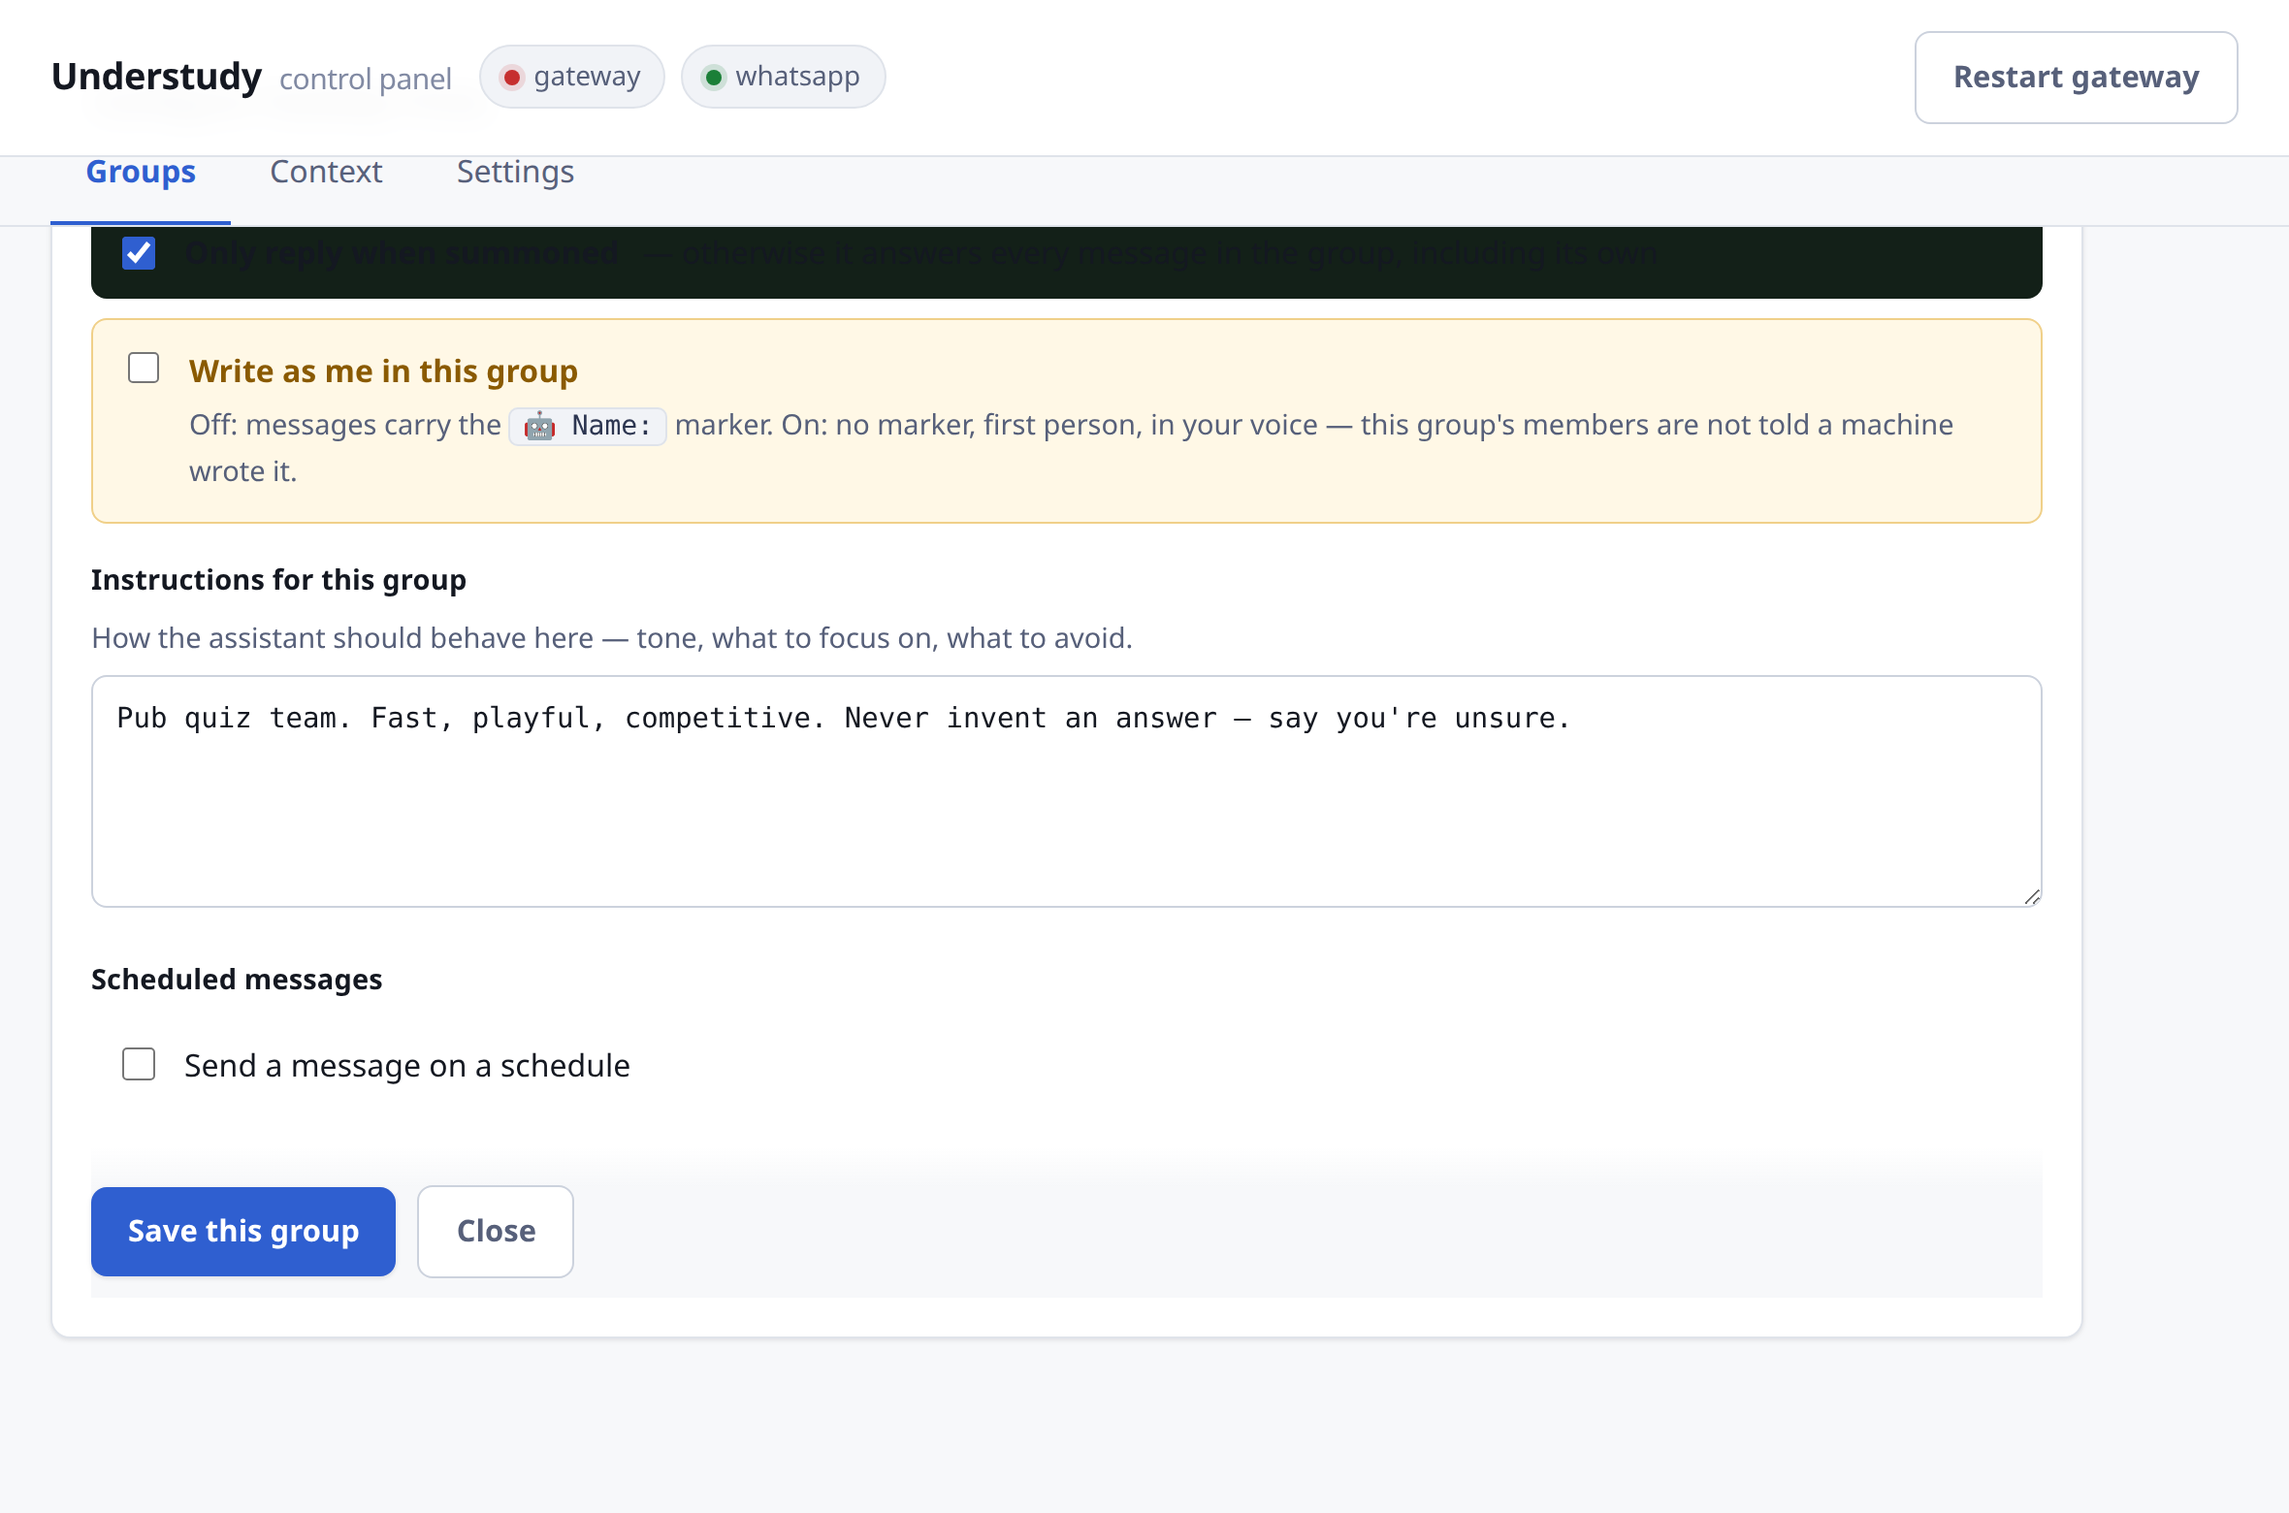
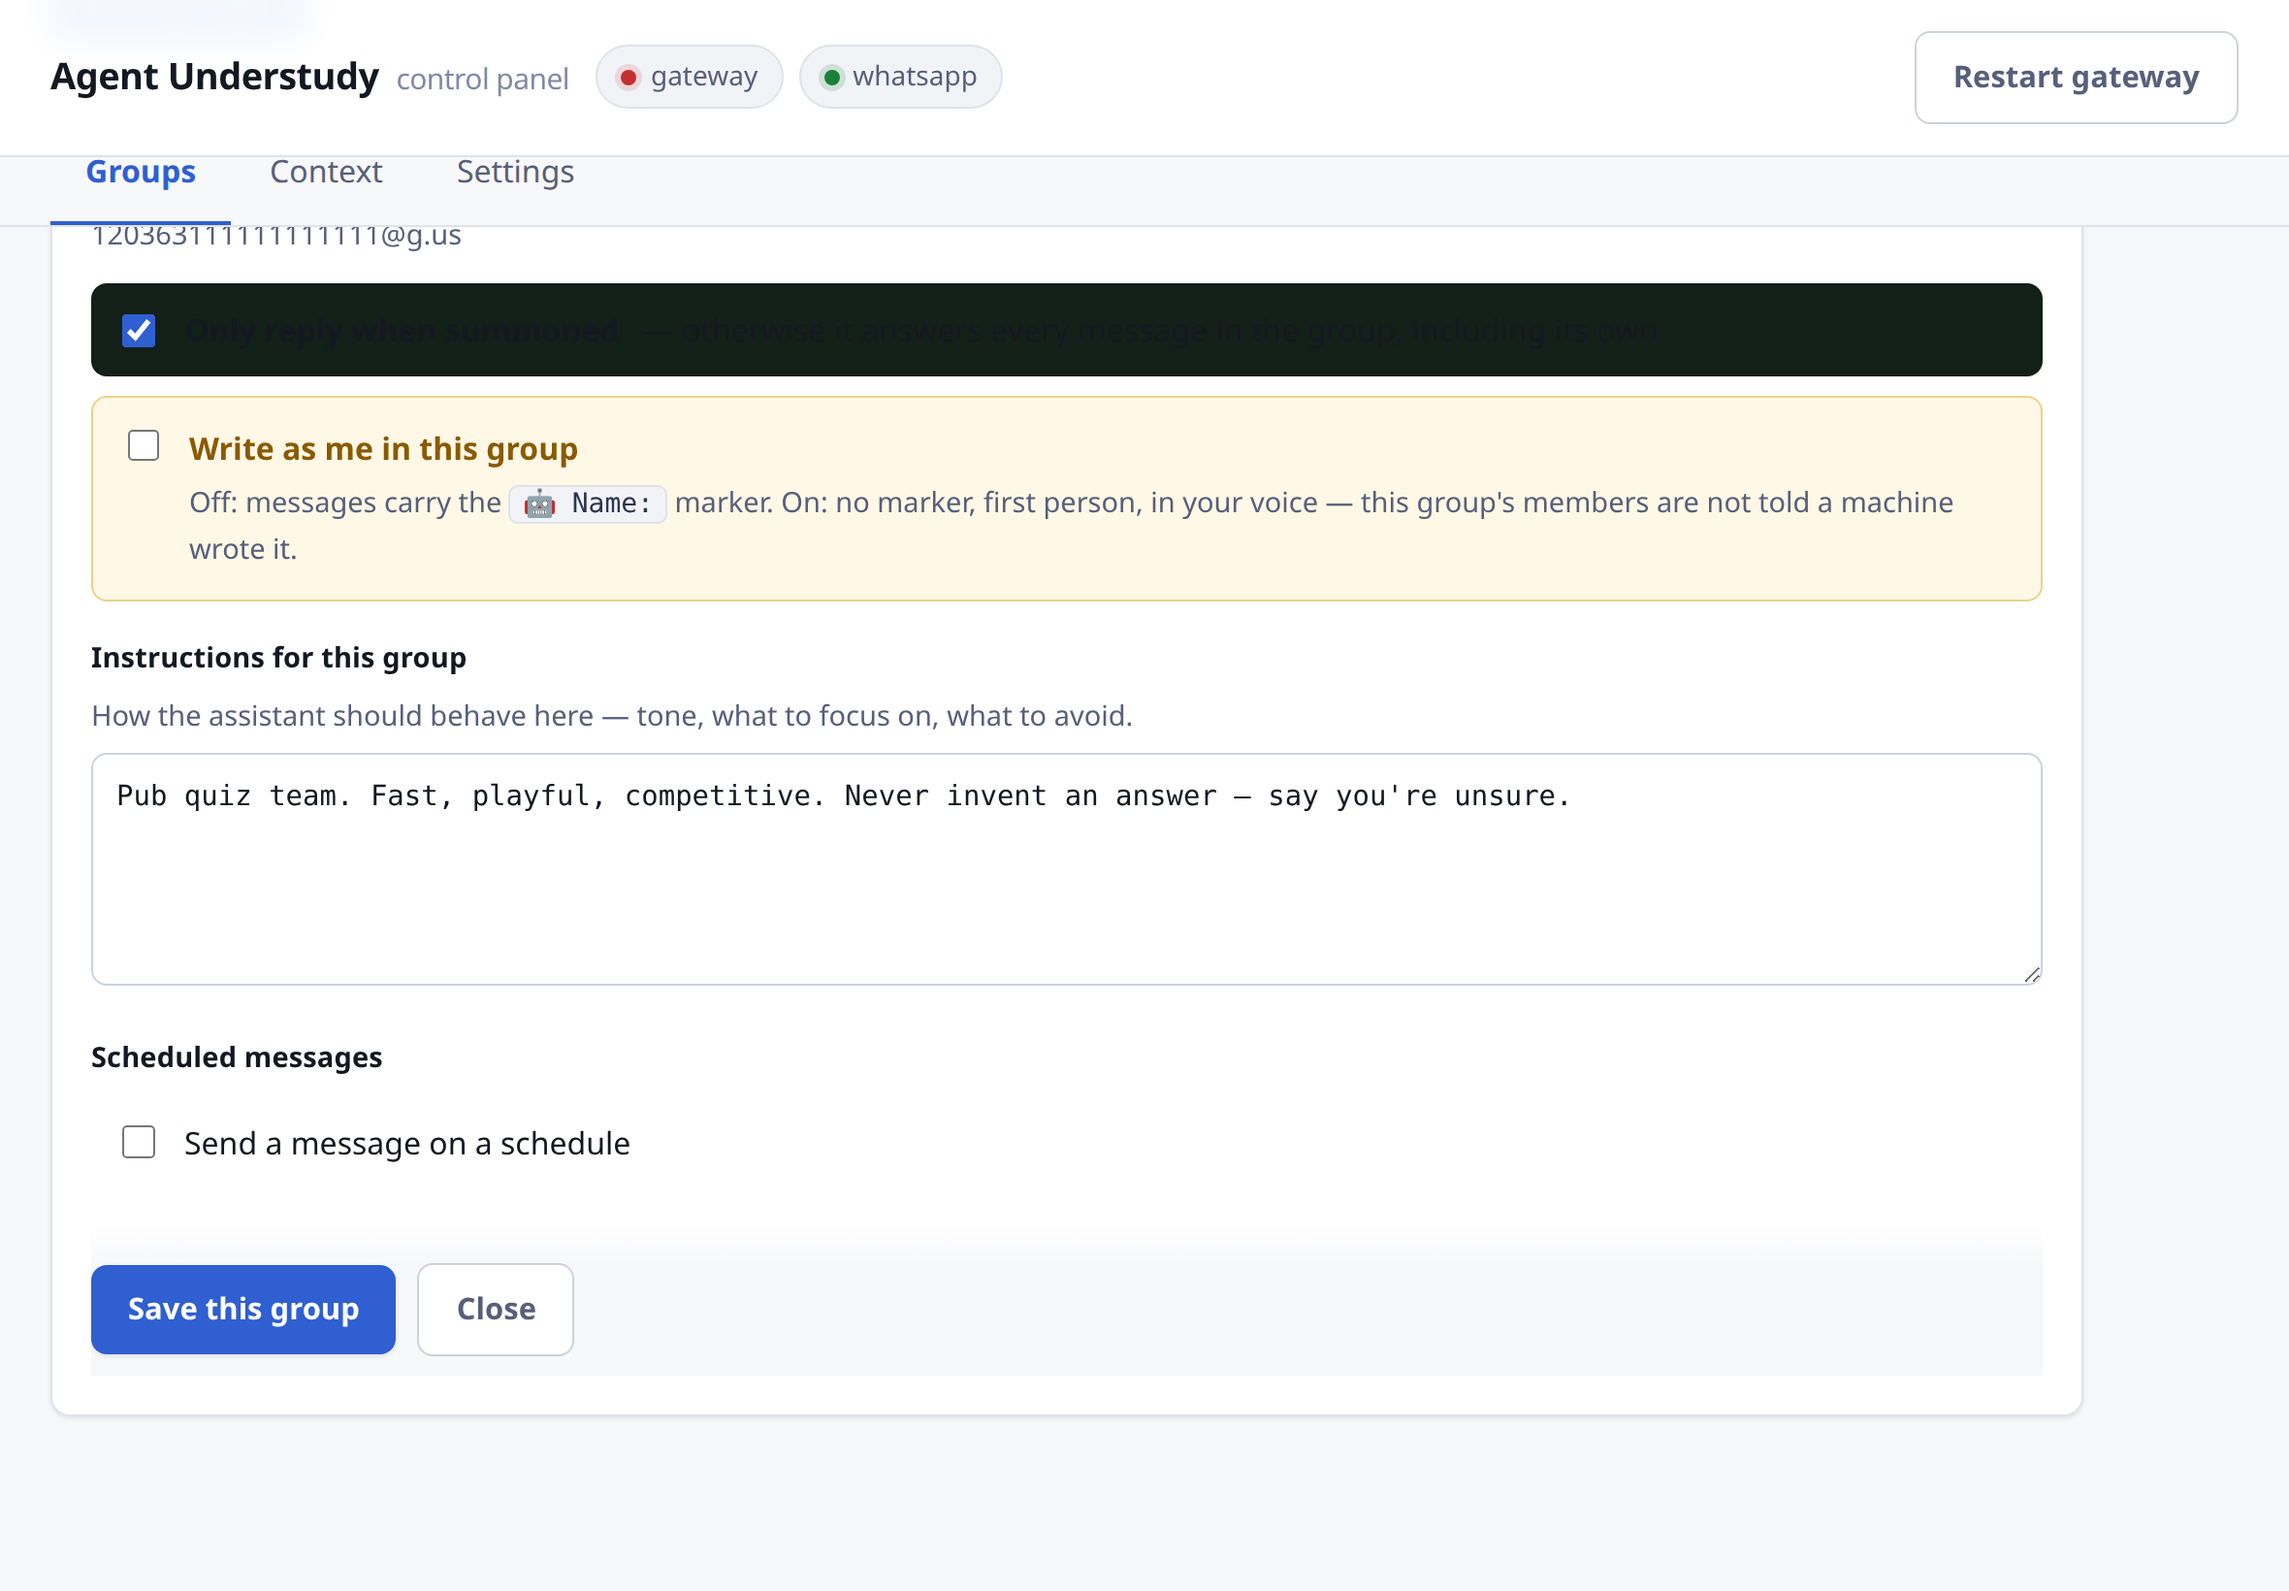
Rename to Agent Understudy
Project name in README, control panel and docs. The repo's default assistant
name becomes "Understudy" to match, and the shipped example summon pattern is
regenerated for it — verified self-safe (does not match the assistant's own
prefixed output), still matches ordinary human phrasings, and contains no emoji
that OpenClaw's safe-regex check would reject.

Local config is untouched: the summon word there stays whatever the operator set.

Screenshots recaptured.

diff --git a/web/server.py b/web/server.py
@@ -1,5 +1,5 @@
 #!/usr/bin/env python3
-"""Local control panel for Understudy.
+"""Local control panel for Agent Understudy.
 
     python3 web/server.py          # http://127.0.0.1:8765
 
@@ -185,7 +185,7 @@ WORKSPACE = pathlib.Path(WORKSPACE_OVERRIDE or (pathlib.Path.home() / ".openclaw
 AGENTS_MD = WORKSPACE / "AGENTS.md"
 BLOCK_START = "<!-- swamai:identity:start -->"
 BLOCK_END = "<!-- swamai:identity:end -->"
-DEFAULT_NAME = "Assistant"
+DEFAULT_NAME = "Understudy"
 
 
 def mention_pattern_for(name):
@@ -647,7 +647,7 @@ def _valid_re(p):
         return False
 
 
-PAGE = r"""<!doctype html><meta charset=utf-8><title>Understudy</title>
+PAGE = r"""<!doctype html><meta charset=utf-8><title>Agent Understudy</title>
 <style>
 :root{
   --bg:#f7f8fa; --panel:#ffffff; --panel-2:#f1f3f7; --line:#dfe3ea;
@@ -745,7 +745,7 @@ button.ghost:hover{background:var(--panel-2);color:var(--ink)}
 ::-webkit-scrollbar-thumb:hover{background:#b3bcce}
 </style>
 <header>
-  <h1>Understudy<span class=tag>control panel</span></h1>
+  <h1>Agent Understudy<span class=tag>control panel</span></h1>
   <span id=health class=muted>checking…</span>
   <span style=flex:1></span>
   <button class="act ghost" onclick=restart()>Restart gateway</button>

diff --git a/README.md b/README.md
@@ -1,4 +1,4 @@
-# Understudy
+# Agent Understudy
 
 A self-hosted personal assistant that reads and replies to your WhatsApp, built on
 [OpenClaw](https://docs.openclaw.ai/). Runs on a **local model** (Ollama) or a
@@ -31,7 +31,7 @@ each of its rules corresponds to a real message that reached a real group chat.
 npm install -g --allow-scripts=openclaw,@google/genai,koffi,tree-sitter-bash,protobufjs openclaw@latest
 
 # 2. clone and configure
-git clone <this-repo> understudy && cd understudy
+git clone <this-repo> agent-understudy && cd agent-understudy
 ./setup.sh                      # pick ollama | anthropic | openai
 
 # 3. install the WhatsApp channel and link a device
